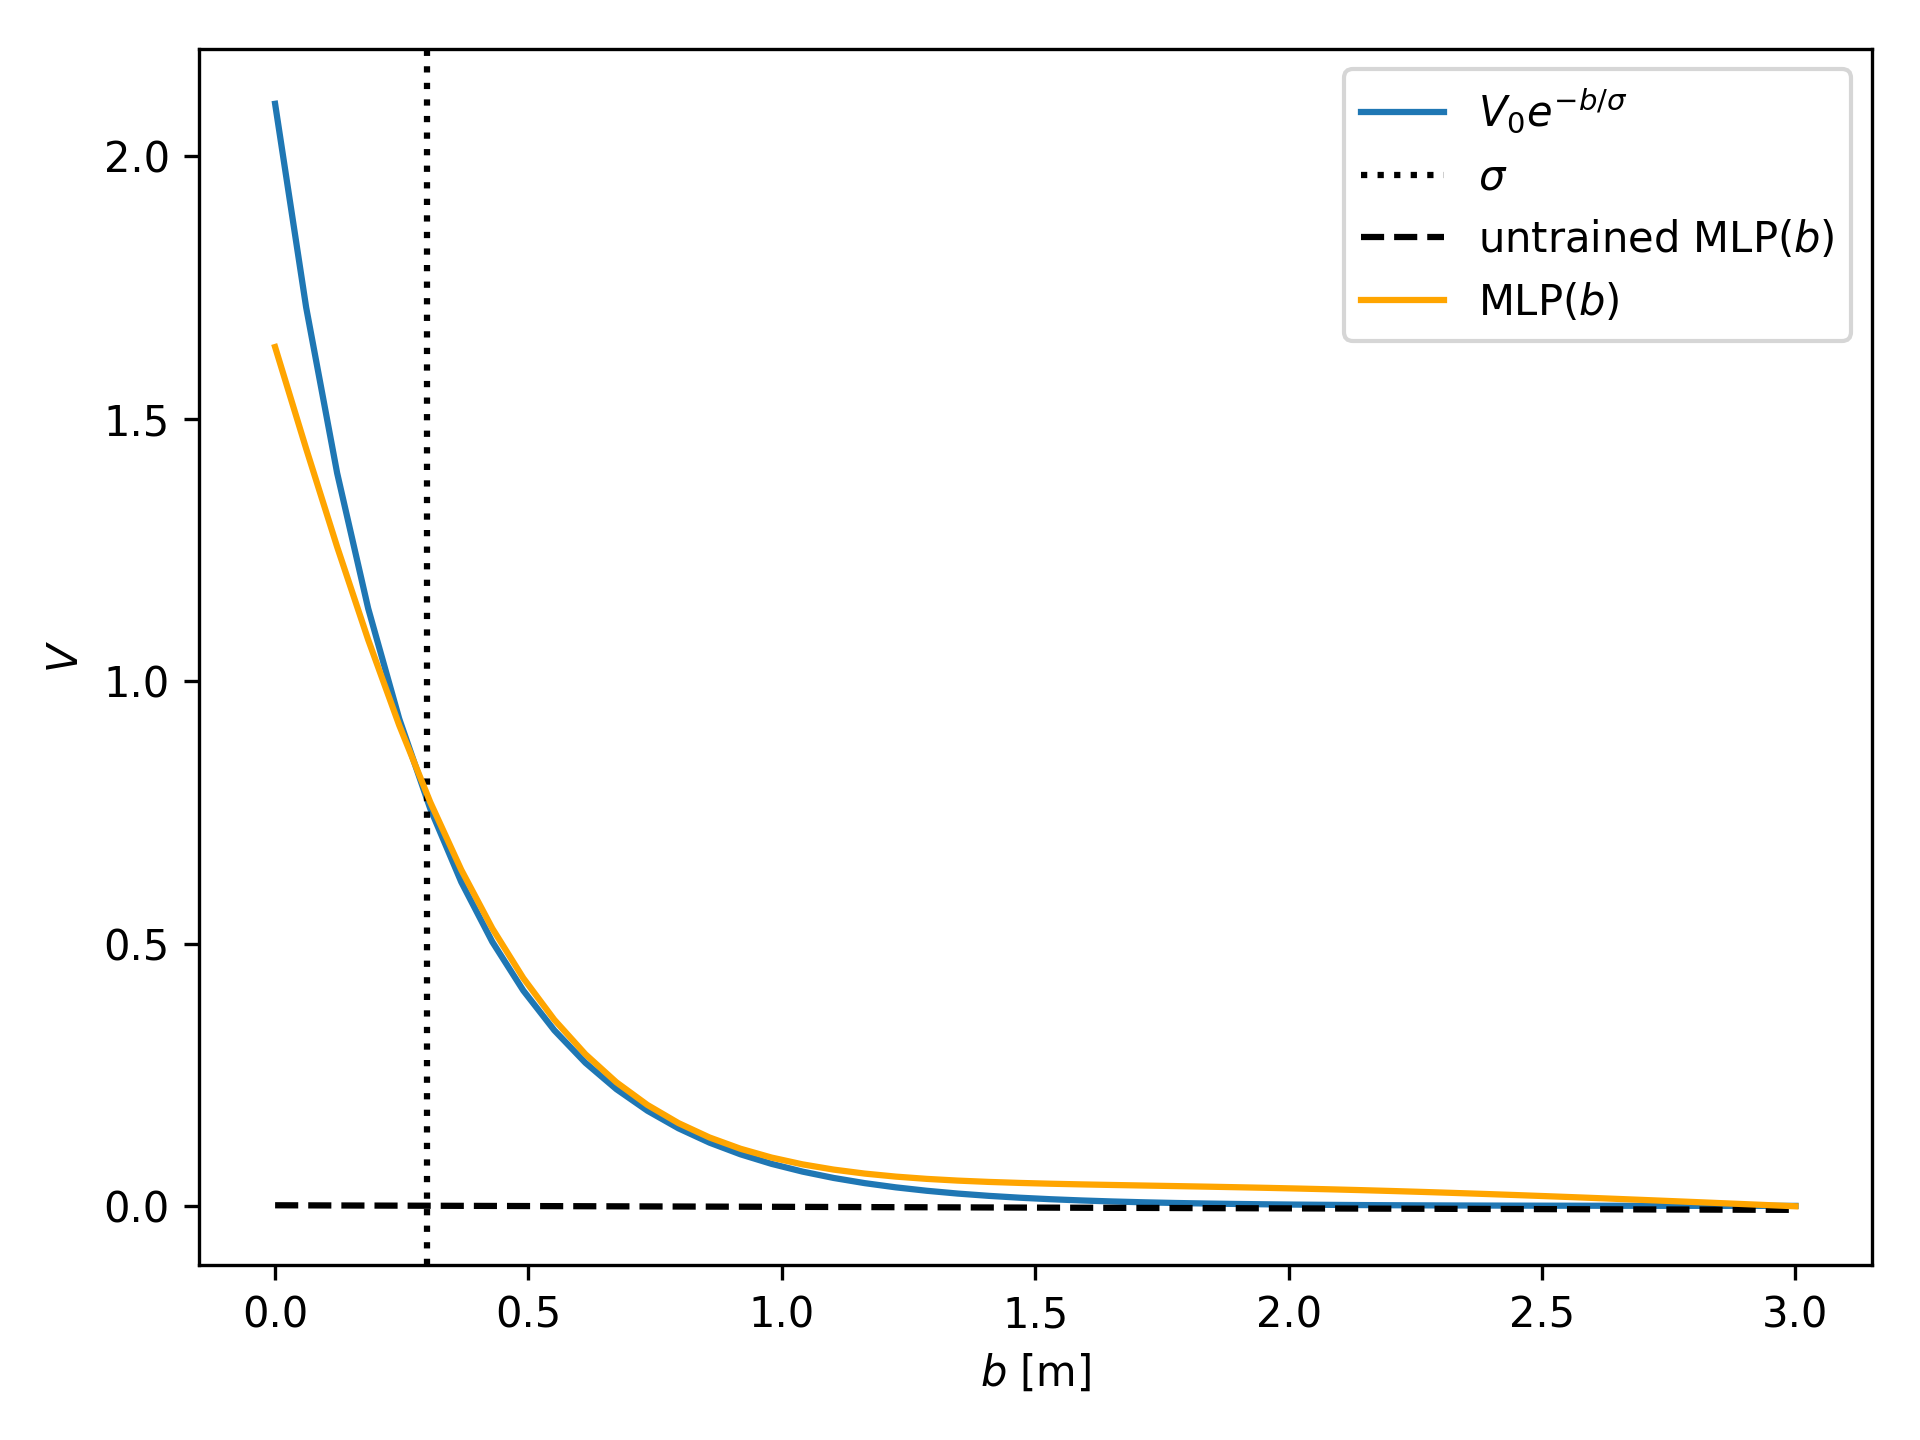
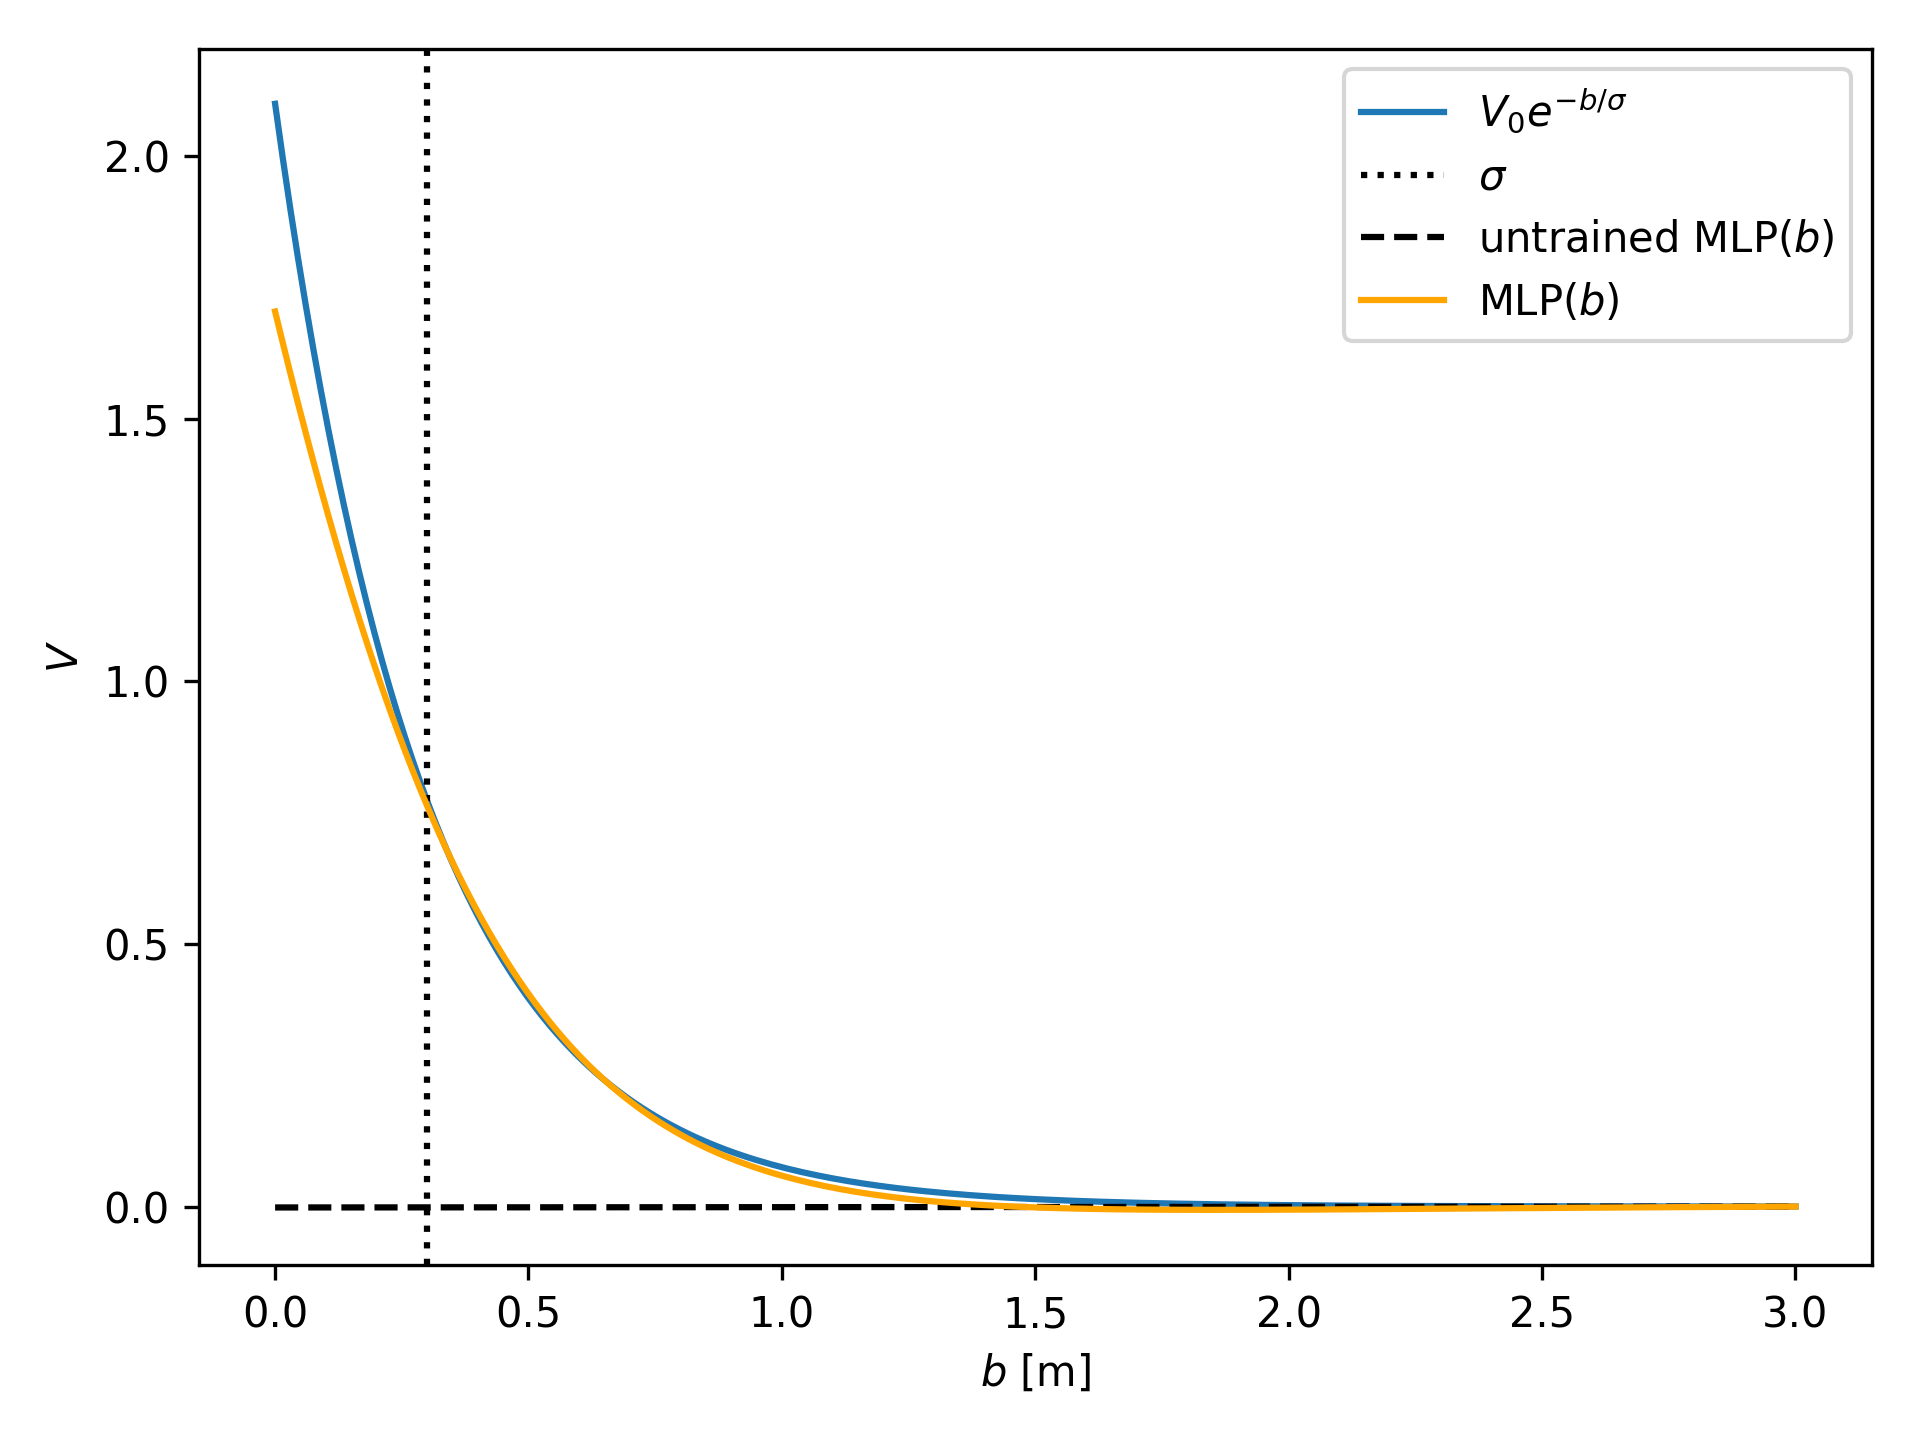
fit different V0 for circle

diff --git a/tests/fit_pedped.py b/tests/fit_pedped.py
@@ -11,9 +11,11 @@ import socialforce
 OPTIMIZER_OPT = {'eps': 1e-4, 'gtol': 1e-4, 'maxcor': 30, 'maxls': 10, 'disp': True}
 
 
-def visualize(file_prefix, V, initial_parameters, final_parameters, fit_result=None):
+def visualize(file_prefix, V, initial_parameters, final_parameters, fit_result=None, V_gen=None):
     b = np.linspace(0, 3, 200)
     y_ref = 2.1 * np.exp(-1.0 * b / 0.3)
+    if V_gen is not None:
+        y_ref = V_gen.v0 * np.exp(-1.0 * b / V_gen.sigma)
 
     V.set_parameters(torch.tensor(initial_parameters))
     y_initial = V.value_b(torch.from_numpy(b).float()).detach().numpy()
@@ -213,9 +215,11 @@ def test_circle_mlp(n, lr=0.3):
             [-0.3, 10.0, 0.0, -1.0, -0.3, 0.0],
         ])]
 
+    generator_v0 = 1.5 if n != 1 else 2.1
+    generator_ped_ped = socialforce.PedPedPotential(0.4, generator_v0)
     Y = []
     for x in X:
-        generator = socialforce.Simulator(x)
+        generator = socialforce.Simulator(x, None, generator_ped_ped)
         Y.append(
             torch.stack([generator.step().state[:, 0:2].clone() for _ in range(21)]).detach()
         )
@@ -255,4 +259,4 @@ def test_circle_mlp(n, lr=0.3):
         torch.save(V.get_parameters(), f)
 
     # make plots of result
-    visualize('docs/mlp_circle_n{}_'.format(n), V, initial_parameters, V.get_parameters().clone())
+    visualize('docs/mlp_circle_n{}_'.format(n), V, initial_parameters, V.get_parameters().clone(), V_gen=generator_ped_ped)
